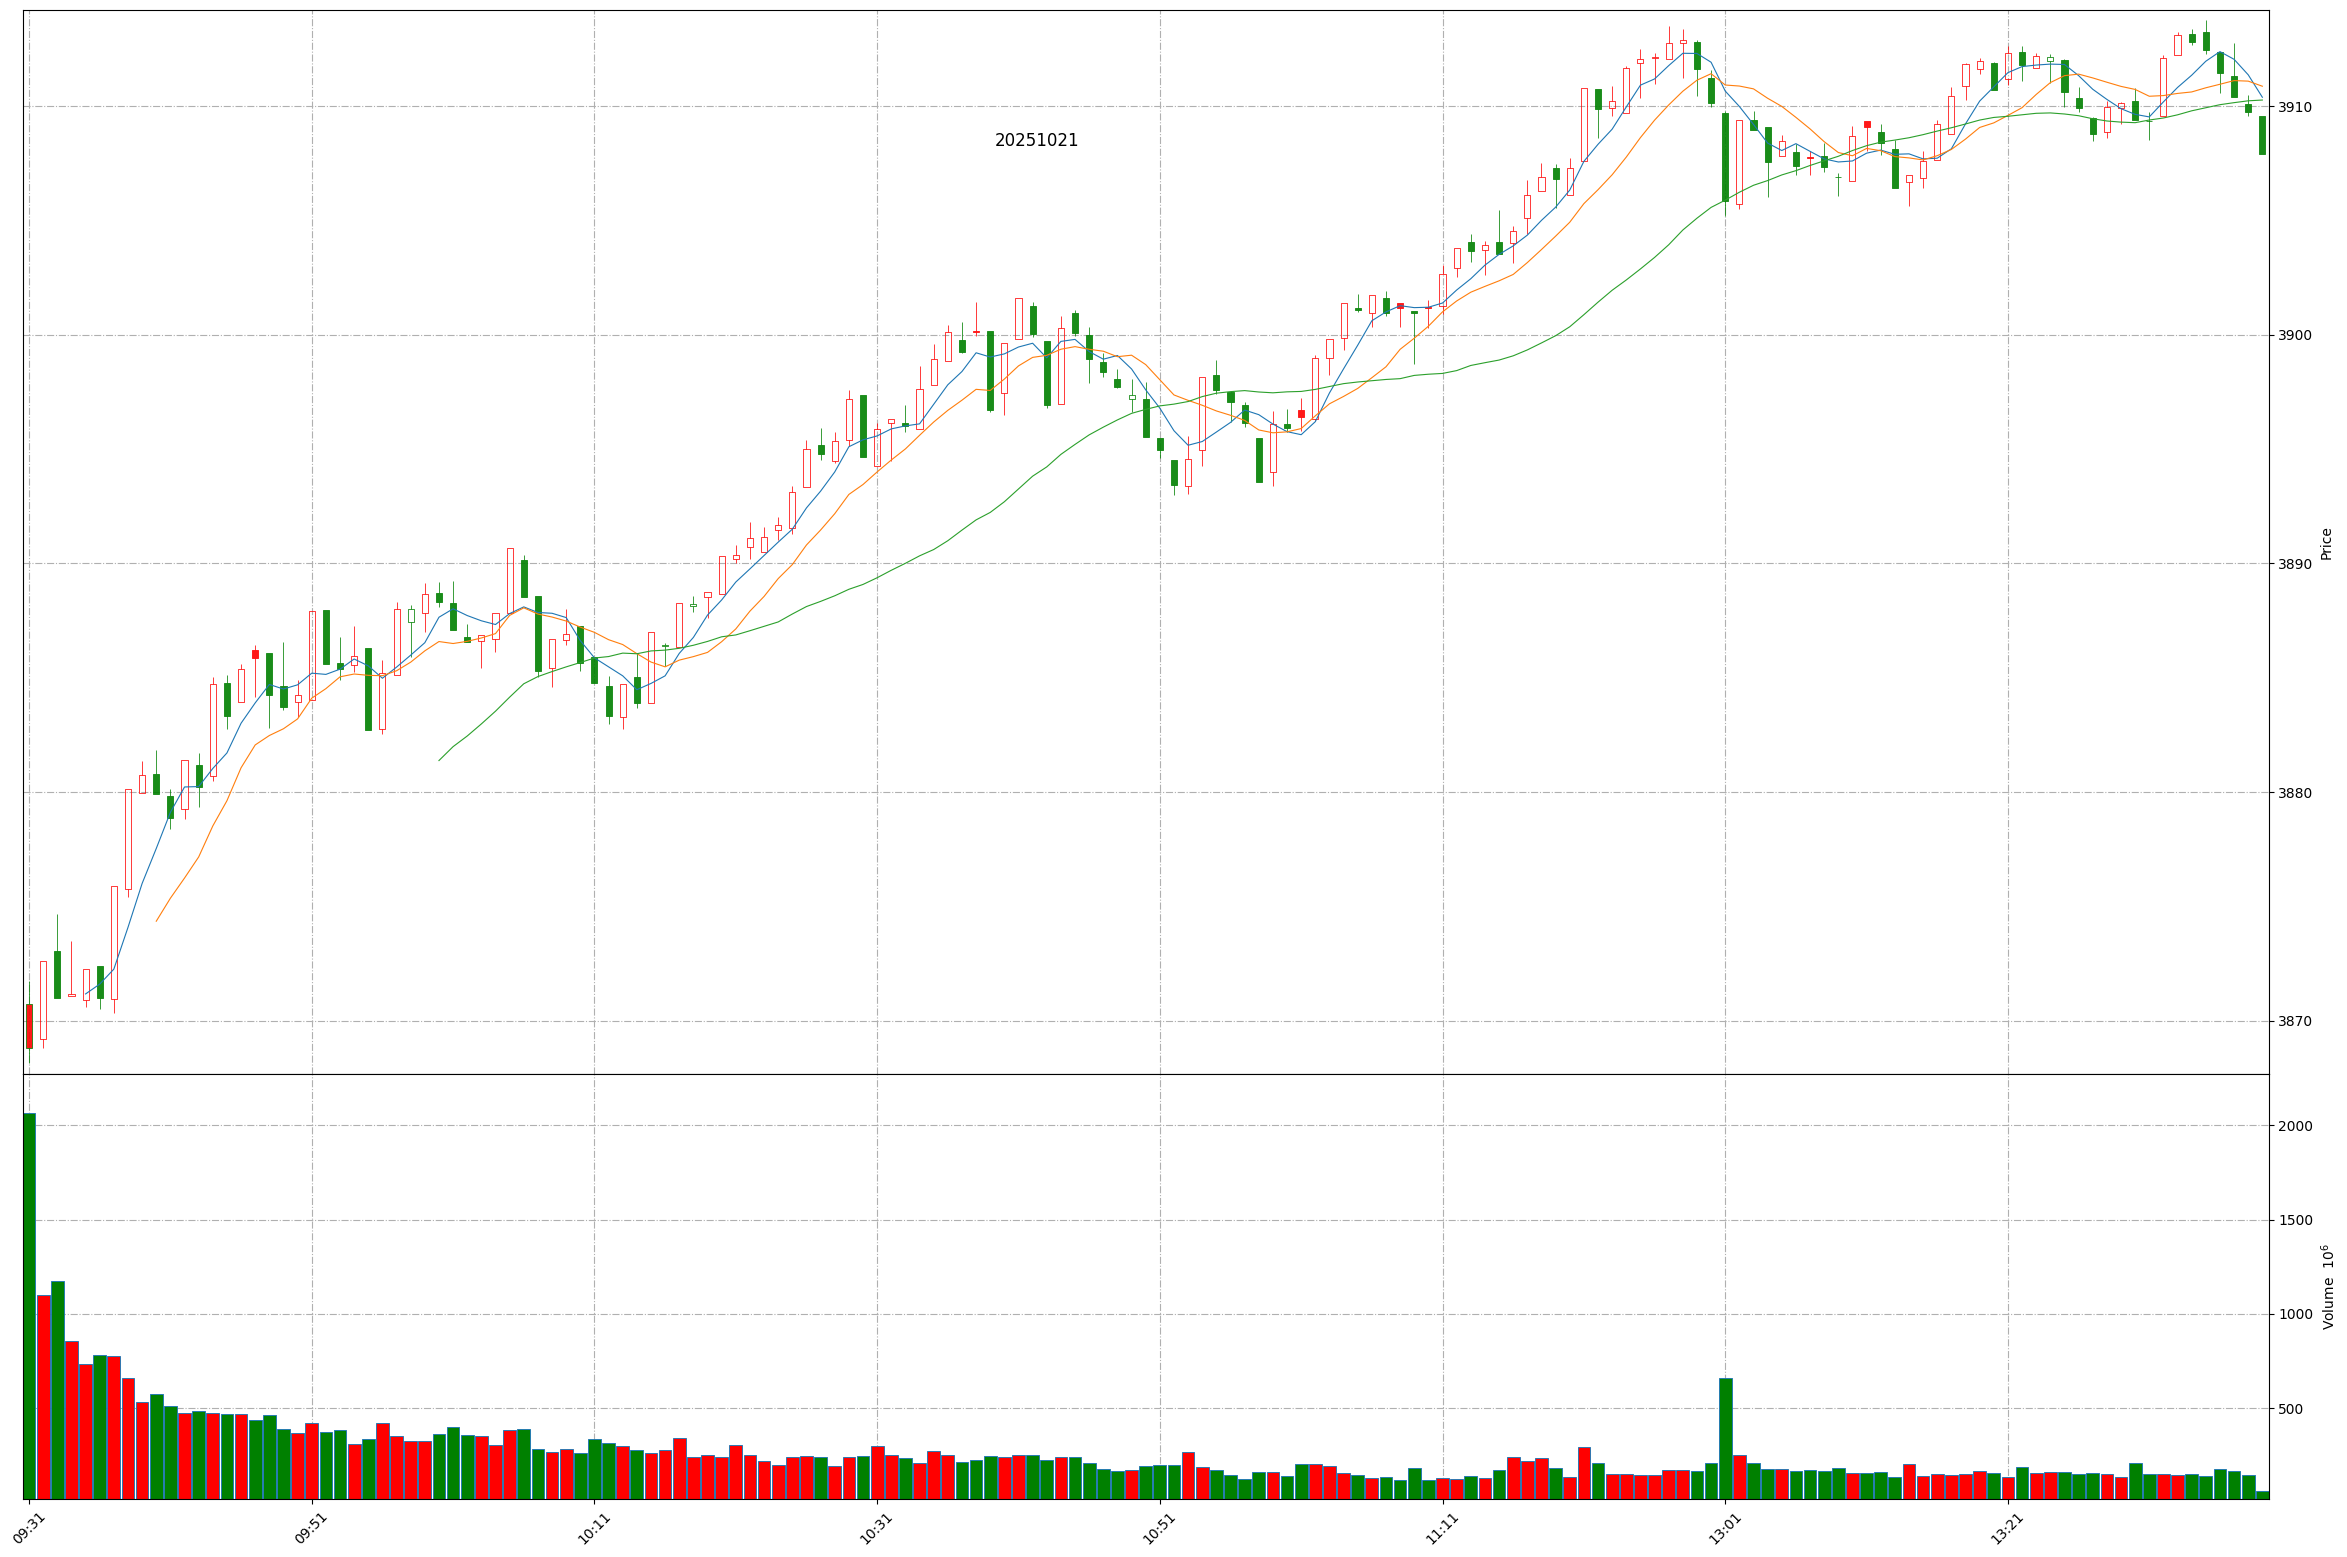
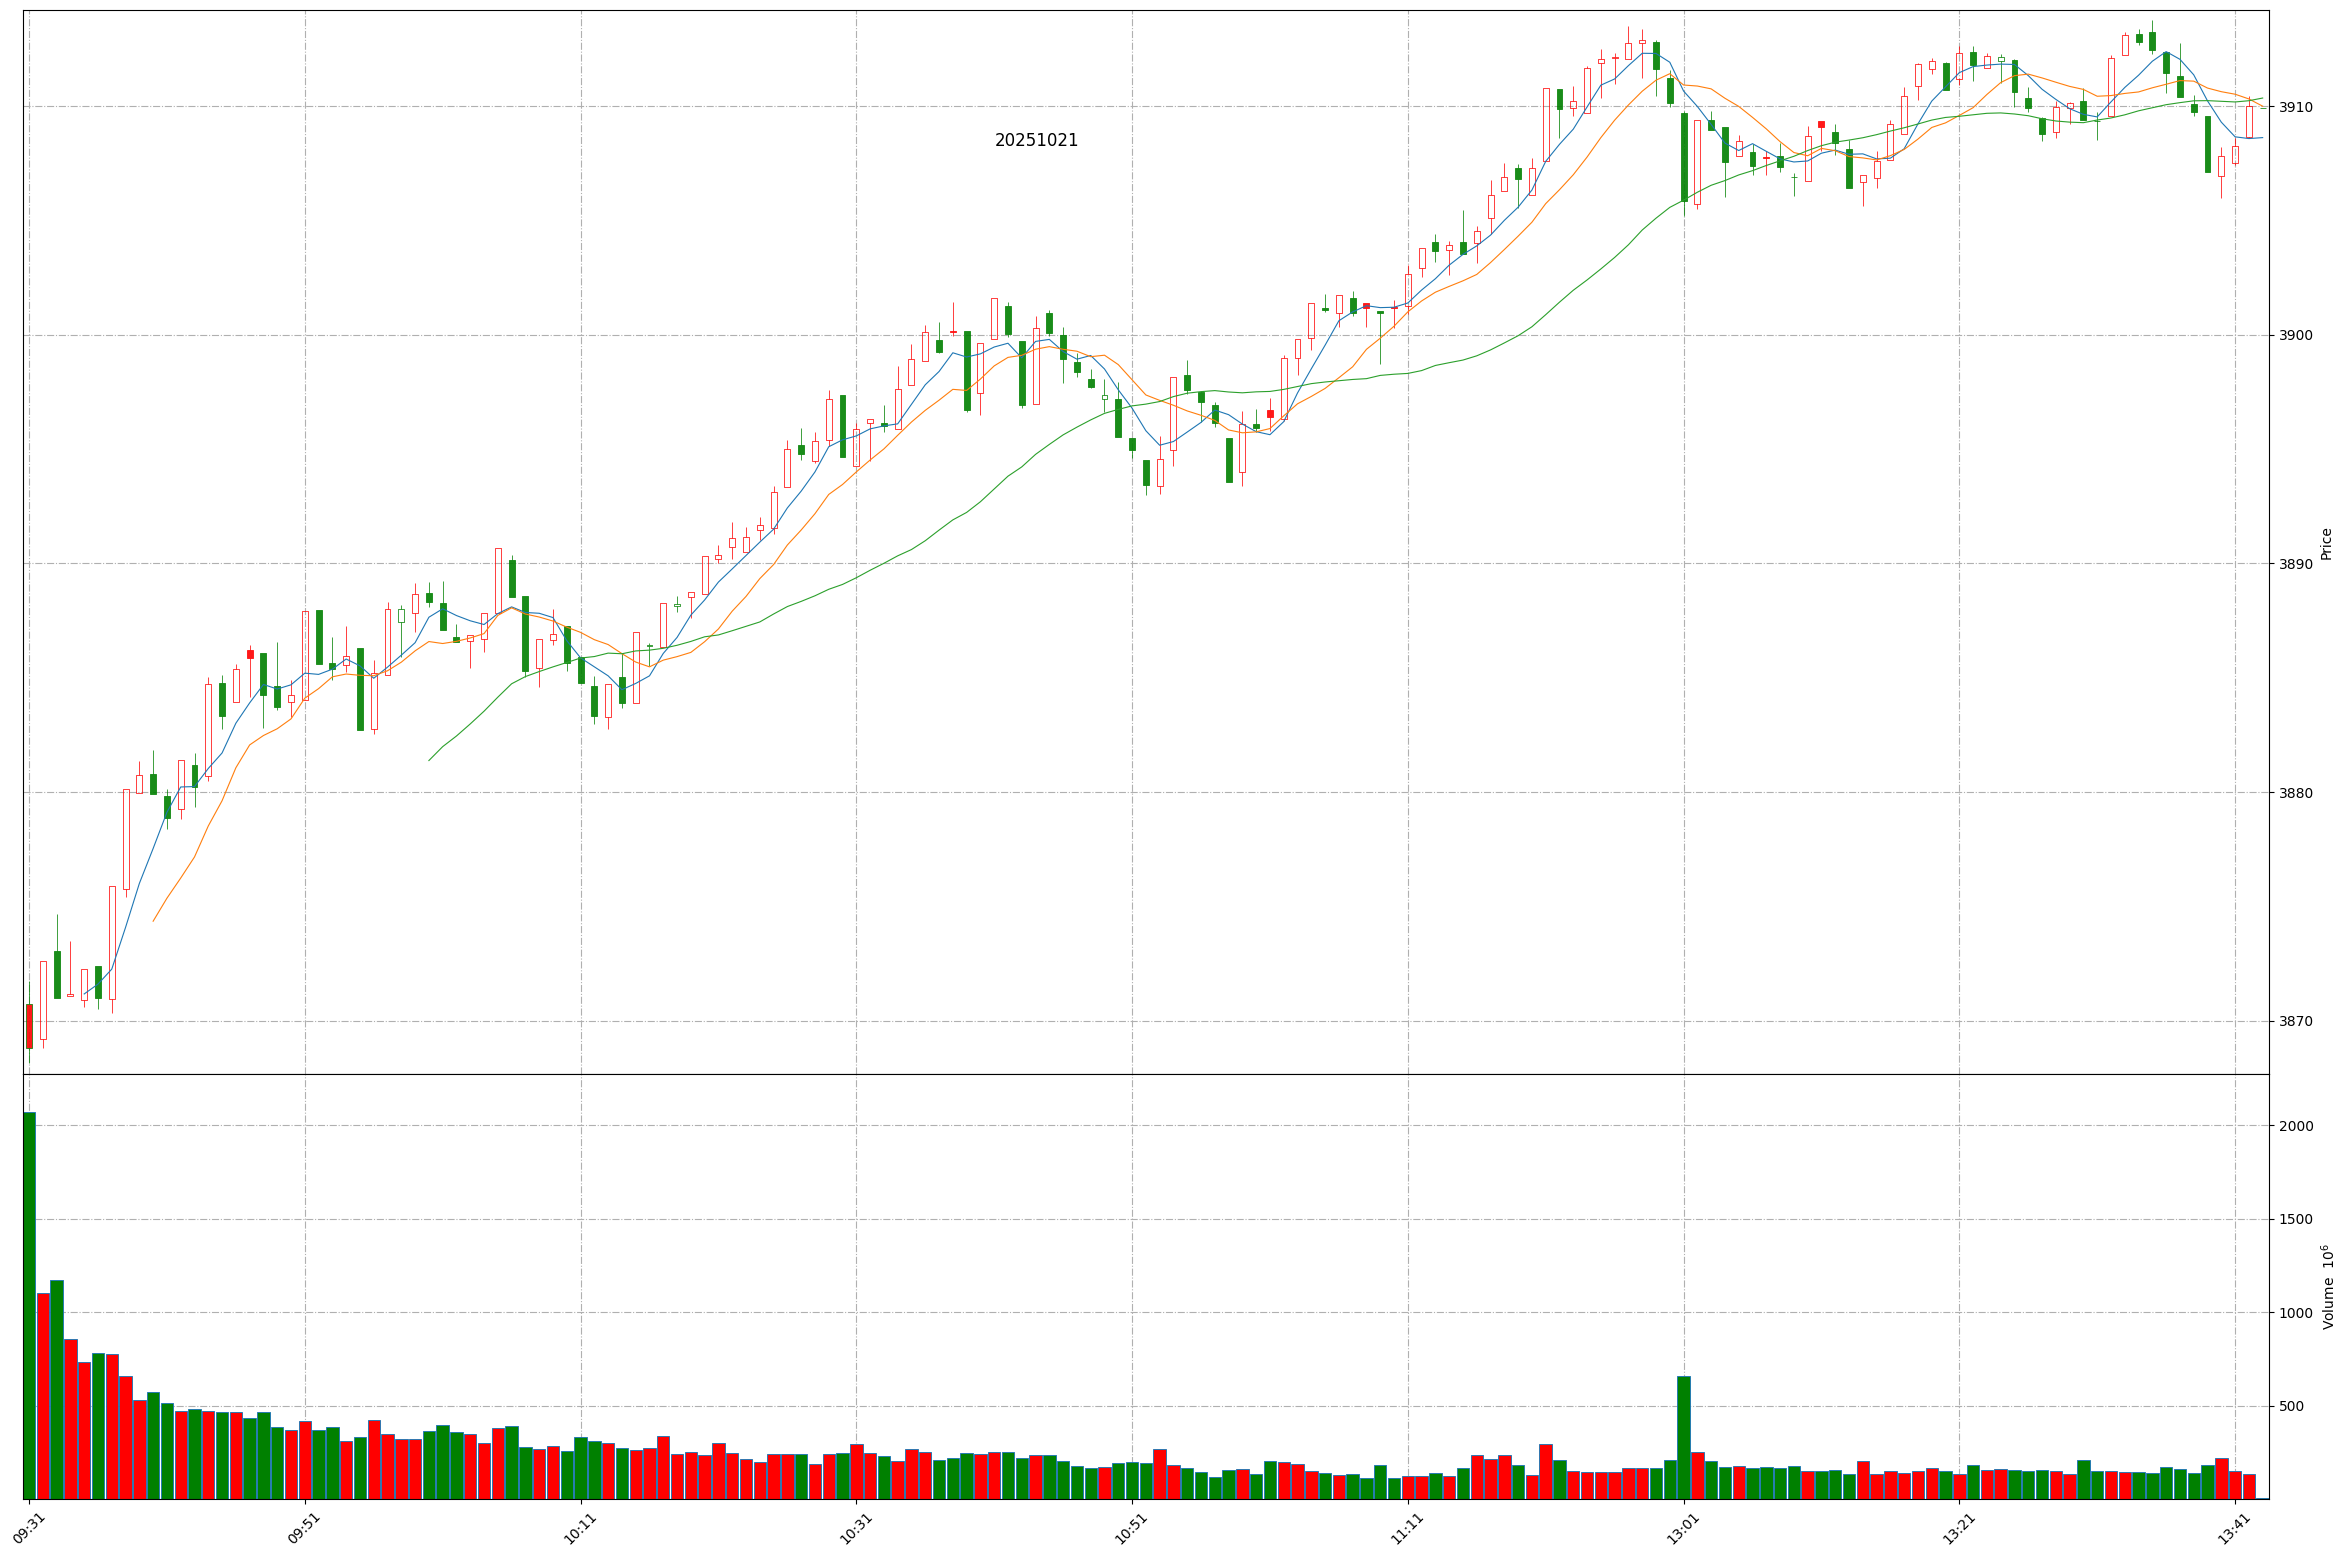
Github action update at 2025-10-21 13:42:32.

diff --git a/README.md b/README.md
@@ -1,11 +1,11 @@
 
 # Daily-A-share-market-quotes 每日 A 股指数（5min 更新）- 20251021
 
-### 上证指数 20251021 13:38
+### 上证指数 20251021 13:42
 ![](./fig/2025/10/20251021-sh000001.png)
 
-### 深证成指 20251021 13:38
+### 深证成指 20251021 13:42
 ![](./fig/2025/10/20251021-sz399001.png)
 
-### 北证50 20251021 13:38
+### 北证50 20251021 13:42
 ![](./fig/2025/10/20251021-bj899050.png)
